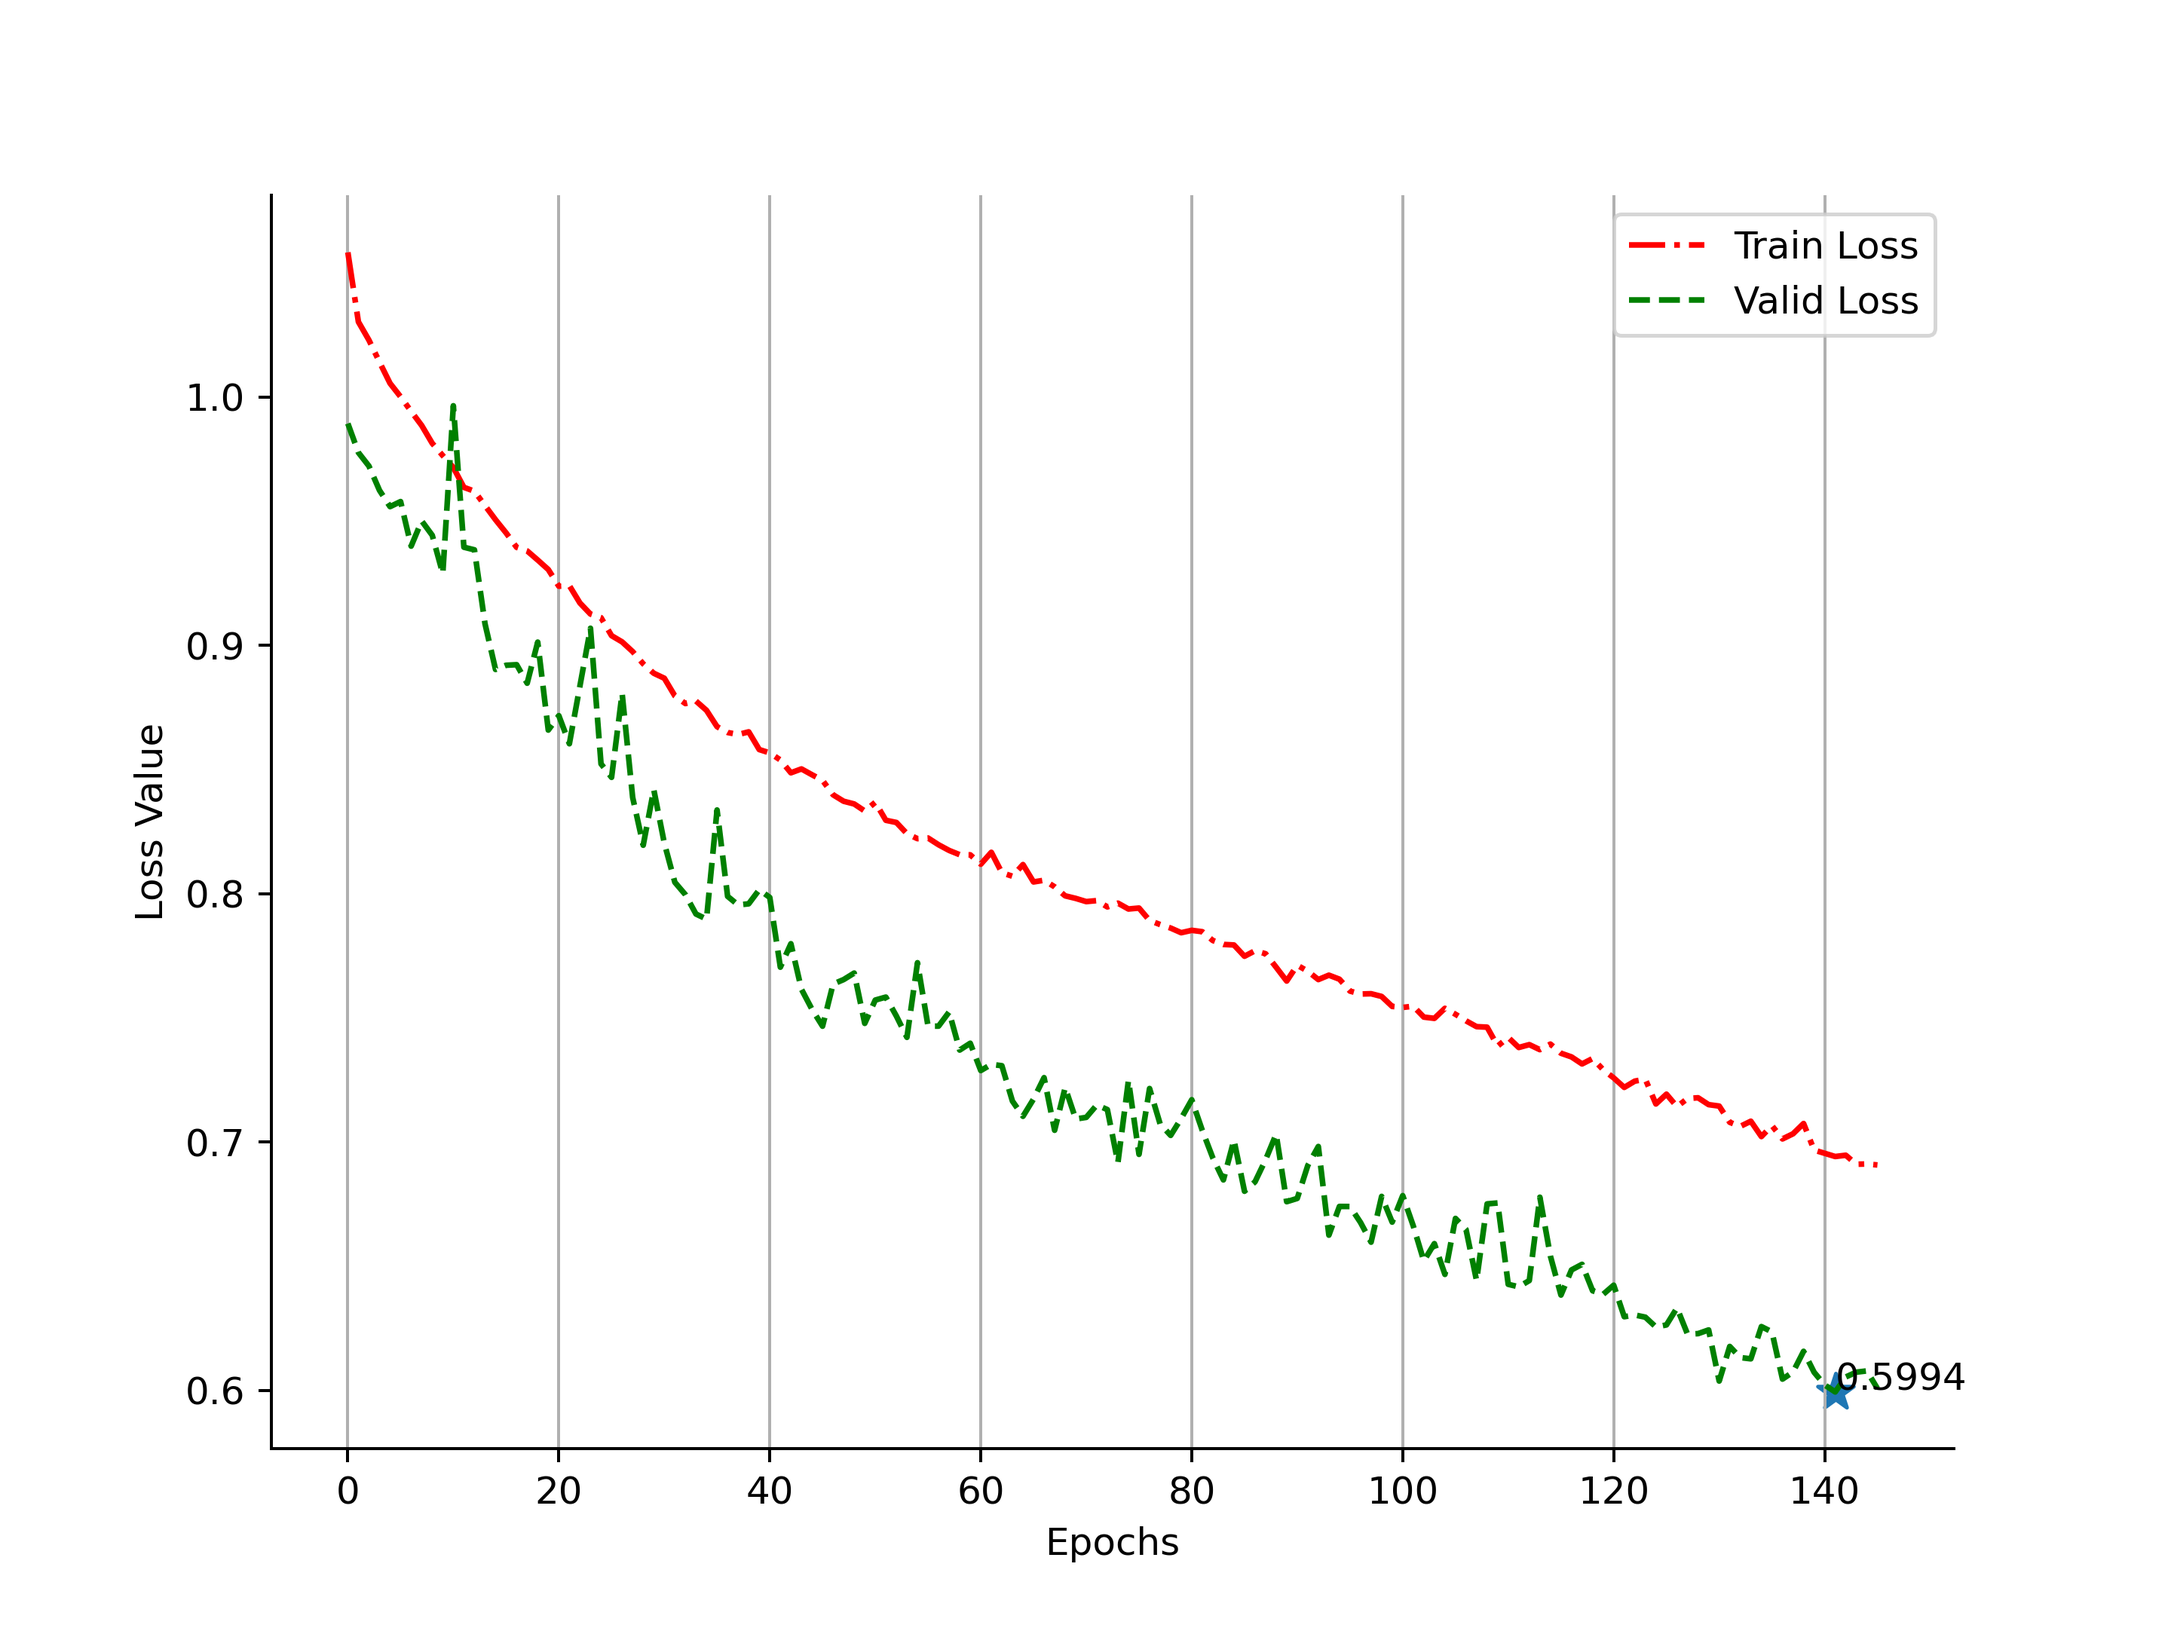
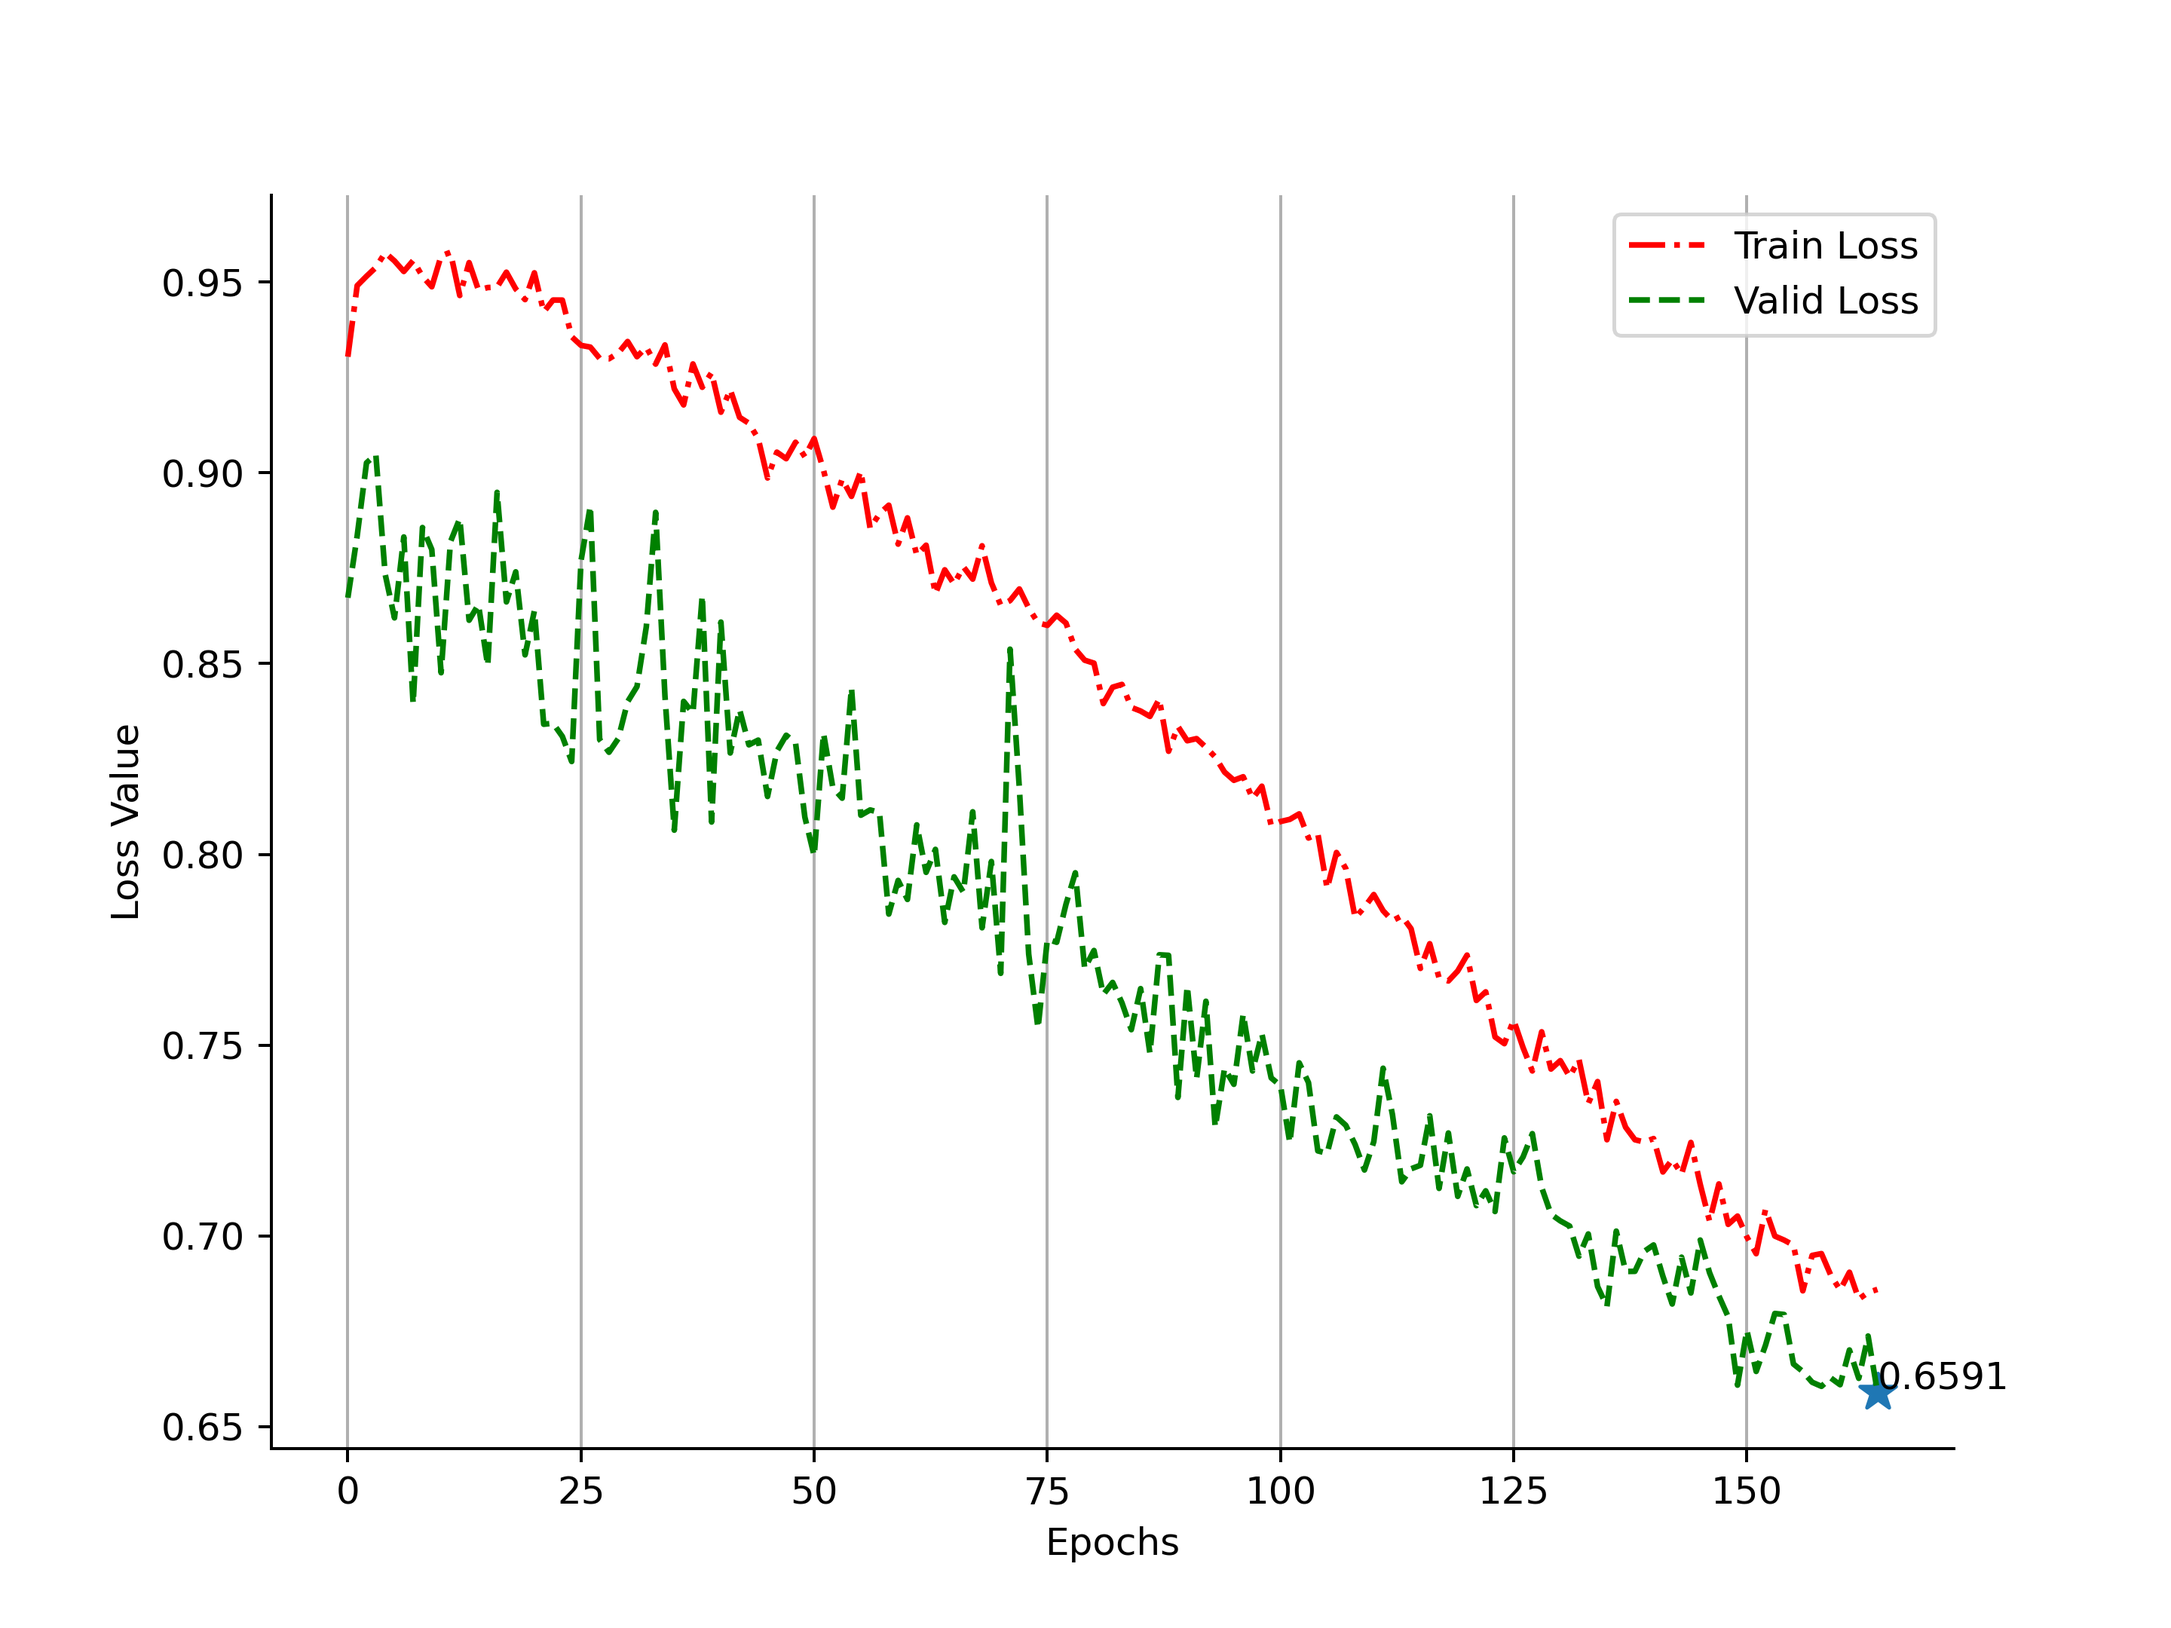
new file:   Figure/ResUnetV1_loss.png 	modified:   Figure/ResUnet_loss.png 	modified:   README.md 	modified:   src/data.py 	modified:   src/loss.py 	modified:   src/trainer.py 	modified:   train.py 	modified:   utils/utils.py

diff --git a/train.py b/train.py
@@ -1,19 +1,37 @@
 import torch
-from torch.utils.data import DataLoader
+from torch.utils.data import DataLoader, WeightedRandomSampler
 from src.unet import UNet
 from src.resunet import ResUnet
 from src.loss import CEDiceLoss
 from src.data import UnetDataset
 from src.trainer import Trainer
-from utils.utils import ROOT
+from utils.utils import ROOT, calc_rare_sample_weight
 from utils.plot import plot_loss
 from torch.optim.lr_scheduler import ReduceLROnPlateau, CosineAnnealingLR
 
-def main():
+"""
+weight = np.clip( np.median(pixel_freq_precet) / (pixel_freq_precet + 1e-6), 0.1, 10)
+"""
+pixel_precent = [0.59427402, 0.01427115, 0.0106742 , 0.01355912, 0.00916274,
+           0.00697495, 0.01796363, 0.02626262, 0.04365999, 0.01511205,
+           0.00756764, 0.01194504, 0.04175405, 0.01301906, 0.01596141,
+           0.10060095, 0.00747321, 0.00843392, 0.01269623, 0.01853402,
+           0.0101    ]
+weight = torch.tensor([0.1       , 0.95004097, 1.27015189, 0.99992625, 1.47964967,
+          1.94369527, 0.75476786, 0.51627017, 0.31055463, 0.89717952,
+          1.79148634, 1.13503095, 0.3247301 , 1.0414023 , 0.84944074,
+          0.13477992, 1.81412038, 1.60749811, 1.06788016, 0.73154082,
+          1.34235462])
+
+def main(model_weight = None):
+    batch_size = 16
     traindataset = UnetDataset(ROOT/"data", "train")
     valdataset = UnetDataset(ROOT/"data", "val")
-    trainloader = DataLoader(traindataset, batch_size = 16, num_workers=2, shuffle=True, pin_memory = True, persistent_workers=True, prefetch_factor=2)
-    valloader = DataLoader(valdataset, batch_size = 32, num_workers=2, shuffle=False, pin_memory = True, persistent_workers=True, prefetch_factor=2)
+    sampler_weight = calc_rare_sample_weight(traindataset, pixel_precent, n_jobs=4)
+    sampler = WeightedRandomSampler(sampler_weight, len(traindataset), replacement=True)
+    # trainloader = DataLoader(traindataset, batch_size = batch_size, num_workers=2, shuffle=True, pin_memory = True, persistent_workers=True, prefetch_factor=2)
+    trainloader = DataLoader(traindataset, batch_size = batch_size, sampler = sampler, num_workers=2, shuffle=False, pin_memory = True, persistent_workers=True, prefetch_factor=2)
+    valloader = DataLoader(valdataset, batch_size = batch_size*2, num_workers=2, shuffle=False, pin_memory = True, persistent_workers=True, prefetch_factor=2)
 
     num_epoch = 200
     early_stop = 15
@@ -21,9 +39,12 @@ def main():
     device = torch.device("cuda" if torch.cuda.is_available() else "cpu")
     # model = UNet(3, 21)
     model = ResUnet(3, 21)
-    criterion = CEDiceLoss(num_classes=21, ce_weight=0.1)
+    if model_weight is not None:
+        model_weight = torch.load(model_weight)
+        model.load_state_dict(model_weight)
+    criterion = CEDiceLoss(num_classes=21, weight=weight.to(device), ce_weight=0.2)
     # optimizer = torch.optim.Adam(model.parameters(), lr = 1e-3, weight_decay=3e-4)
-    optimizer = torch.optim.SGD(model.parameters(), lr = 1e-2, weight_decay=3e-4, momentum=0.9)
+    optimizer = torch.optim.SGD(model.parameters(), lr = 7e-3, weight_decay=3e-4, momentum=0.9)
 
     # lr_scheduler = ReduceLROnPlateau(optimizer, 'max', patience=5)
     lr_scheduler = CosineAnnealingLR(optimizer, T_max=num_epoch)

diff --git a/src/trainer.py b/src/trainer.py
@@ -89,7 +89,7 @@ class Trainer():
             tra_loss = self.train()
             val_loss, miou, class_iou = self.eval()
 
-            print(f"Class_iou: {class_iou}")
+            print(f"Class_iou: {class_iou.tolist()}")
 
             print(f"Train loss: {tra_loss}, Valid loss: {val_loss}, mIoU: {miou}") 
             self.state["tra_loss"].append(tra_loss)
@@ -97,7 +97,7 @@ class Trainer():
             self.state["miou"].append(miou)
             self.state["class_iou"].append(class_iou)
 
-            if (epoch+1) % 10 == 0:
+            if (epoch+1) % 20 == 0:
                 print(self.optimizer.param_groups[0]["lr"])
                 self.save(f"./run/epoch_{epoch+1}_model_loss_{val_loss:.4f}.pth")
 
@@ -108,18 +108,19 @@ class Trainer():
                     self.lr_scheduler.step()
 
             if val_loss < self.best_loss - self.tolerance:
-            # if miou > self.best_miou + self.tolerance:
                 n_count = 0
                 self.best_loss = val_loss
-                # self.best_miou = miou
                 self.save(f"./run/best_model.pth")
             else:
                 n_count += 1
             
-            if n_count == self.early_stop:
+            if miou > self.best_miou:
+                self.best_miou = miou
+
+            if n_count == self.early_stop and self.early_stop is not None:
                 print(f"Epoch {epoch} early stop.")
                 break
-        # print(f"Training finished. Best mIoU = {self.best_miou:.4f}")
+        print(f"Training finished. Best mIoU = {self.best_miou:.4f},  Best loss: {self.best_loss}")
         return None
     
     @staticmethod

diff --git a/utils/utils.py b/utils/utils.py
@@ -3,6 +3,8 @@ import cv2
 import numpy as np
 from pathlib import Path
 from PIL import Image
+from functools import partial
+from joblib import Parallel, delayed
 
 ROOT = os.path.dirname(os.path.dirname(os.path.abspath(__file__)))
 ROOT = Path(ROOT)
@@ -21,3 +23,23 @@ def read_image(raw_path, segment_path):
 
 #     mask = cv2.imread(segment_path, cv2.IMREAD_GRAYSCALE)
 #     return img, mask
+
+def calc_rare_sample_weight(dataset, precent, rare_threshold = 0.01, ignore_index = [0],
+                            rare_weight = 3.0, normal_weight = 1.0,
+                            n_jobs = -1):
+    rare_indices = [n for n, v in enumerate(precent) if v < rare_threshold and n not in ignore_index]
+
+    def get_mask(idx):
+        return dataset[idx][1]
+    
+    def _check_rare(idx, rare_indices):
+        mask = get_mask(idx)
+        unique = np.unique(mask)
+        return rare_weight if len(np.intersect1d(unique, rare_indices)) > 0 else normal_weight
+    
+    mask_idx = list(range(len(dataset)))
+    check_fun = partial(_check_rare, rare_indices = rare_indices)
+    sample_weight = Parallel(n_jobs=n_jobs)(
+        delayed(check_fun)(i) for i in mask_idx
+    )
+    return sample_weight

diff --git a/src/data.py b/src/data.py
@@ -12,14 +12,16 @@
 """
 
 import os
+import numpy as np
 import albumentations as A
 from torch.utils.data import Dataset
 from utils.utils import read_image
 
 MAX_HEIGHT, MAX_WIDTH = 256, 256
 train_trans = A.Compose([
-    A.RandomResizedCrop((MAX_HEIGHT, MAX_WIDTH)),
+    A.RandomResizedCrop((MAX_HEIGHT, MAX_WIDTH), scale=(0.2, 1.0)),
     # A.Resize(MAX_HEIGHT, MAX_WIDTH),
+    A.RandomRotate90(p = 0.5),
     A.CoarseDropout(),
     A.ColorJitter(),
     A.ElasticTransform(),
@@ -40,7 +42,7 @@ class UnetDataset(Dataset):
         self.namepath = os.path.join(path, "Segmentation", f"{datatype}.txt")
         self.name = self.inital()
         self.transformer = train_trans if datatype == "train" else val_trans
-    
+        
     def __len__(self):
         return len(self.name)
 

diff --git a/src/loss.py b/src/loss.py
@@ -2,6 +2,7 @@ import torch
 import torch.nn as nn
 import torch.nn.functional as F
 
+
 class DiceLoss(nn.Module):      
     def __init__(self, num_classes, smooth = 1e-5):
         super().__init__()
@@ -22,9 +23,9 @@ class DiceLoss(nn.Module):
         return 1 - dice_loss.mean()
 
 class CEDiceLoss(nn.Module):
-    def __init__(self, num_classes, ce_weight = 0.5):
+    def __init__(self, num_classes, weight, ce_weight = 0.5):
         super().__init__()
-        self.ce_loss = nn.CrossEntropyLoss(ignore_index=255)
+        self.ce_loss = nn.CrossEntropyLoss(weight = weight,ignore_index=255)
         self.dice_loss = DiceLoss(num_classes)
         self.ce_weight = ce_weight
         self.dice_weight = 1 - ce_weight

diff --git a/src/attention.py b/src/attention.py
@@ -1,0 +1,3 @@
+import torch
+import torch.nn as nn
+import torch.nn.functional as F

diff --git a/README.md b/README.md
@@ -24,10 +24,9 @@
 ### 关于损失函数
 - CrossEntroy + Dice 组合损失函数不要设置分配系数为0.5，会导致模型总是在学习图片中的背景，把所有类别预测为背景，跑出来的Loss是假的(miou极低)，让模型专注于分类Dice。可以前期使用0.2或者0.1，或者干脆只用Dice，后期查看各个分类的iou有不错的值之后在该也行。交叉熵在乎的是整体，而本身图片就大部分是背景（也就是背景与等于整体），所以交叉熵权重过高会诱导模型往背景方向学习。
 ### 关于训练
-- lr_scheduler策略试过warming up+余弦退火、ReduceLROnPlateau，对应优化器使用Adam，效果都不太好，在50~100epoch时学习率就很低了
-- 显存不太够，开启了amp，batch_size设置得也很小。
-
+#### 原版Unet
 ```shell
+No crossentropy weight, data enchanced lowest
 Unet best on 4070tis 16G:
 Epoch 186
 Class_iou: 
@@ -36,16 +35,49 @@ Class_iou:
 0.00331658, 0.27010915, 0.4420583,  0.33303532, 0.44052273, 
 0.57888395, 0., 0.37612396, 0.28619772, 0.57614607, 0.45614052]
 Train loss: 0.7639775494074174, Valid loss: 0.6284025855686354, mIoU: 0.372471421957016
-GMEM peak: 10.2G, mean FLOPs: 5.1 it/s, escaped: 5h40min
+GMEM peak: 10.2G, mean FLOPs: 5.1 it/s, escaped: 5h40min 
 ```
+1. lr_scheduler策略试过warming up+余弦退火、ReduceLROnPlateau，对应优化器使用Adam，效果都不太好，在50~100epoch时学习率就很低了
+2. 原始Unet显存不太够，开启了amp，batch_size设置得也很小；
+3. 原版Unet过于保守，在encoder阶段其一是感受野太小无法有效捕获空间结构，其二是下采样保留的的维度相对保守，人眼判断一个物体也不一定非得要特别清晰才能判断。
 
+随后进行Resnet-Unet训练：将encoder替换为resnet34，其余不变
+
+#### ResUnet
 ```shell
+No crossentropy weight, data enchanced median
 Res_Unet best:
 Epoch 142
-Class_iou: [0.8384693  0.5988348  0.21043877 0.4552829  0.37388262 0.01636582
- 0.7676033  0.66530776 0.52315587 0.1648062  0.3444997  0.3709078
- 0.37317067 0.45931226 0.51064265 0.58065015 0.10528094 0.42470327
- 0.2946658  0.6261741  0.32148215]
+Class_iou:
+[0.8384693,  0.5988348,  0.21043877, 0.4552829,  0.37388262, 0.01636582,
+ 0.7676033,  0.66530776, 0.52315587, 0.1648062,  0.3444997,  0.3709078,
+ 0.37317067, 0.45931226, 0.51064265, 0.58065015, 0.10528094, 0.42470327,
+ 0.2946658,  0.6261741,  0.32148215]
 Train loss: 0.6941627371617314, Valid loss: 0.5993529098189395, mIoU: 0.42979228496551514
 GMEM peak: 5.9G, mean FLOPs: 11.73 it/s, escaped: 2h12min
 ```
+整体上来说ResUnet全方位碾压Unet：
+1. 训练初始encoder感受野大
+2. 采用激进的下采样策略，到瓶颈层维度仅为 512x8x8，节省了大量内存，也为计算提速不少
+3. 使用残差链接方式，防止梯度消失，让最底层的encoder也有几乎学习到原始特征
+4. resnet使用的是resnet34网络结构，瓶颈层没有采用1x3x1的方式，防止特征丢失过多
+5. 特别的，数据增强引入了拉伸变形，矩形块随机消失，随机明亮/对比度/锐化，高斯噪声，用于获取更泛化的模型（为什么原版Unet不用？试过了，本来就笨的Unet加入之后Loss波动更大，miou迟迟无法提升，根本学不到东西）
+
+上面两种训练方式中，发现对于小型的物体模型很难学习到，遂引入权重。
+```shell
+Resunet crossentropy weight and classes sampler weight:
+best epoch 354
+
+Class_iou:
+[ 0.8212452530860901, 0.5623279213905334, 0.1768288016319275, 0.4441829025745392, 0.38164231181144714, 
+0.4150521755218506, 0.7242353558540344, 0.6501280069351196, 0.5659971237182617, 0.14889083802700043, 0.47214949131011963, 
+0.4191027879714966, 0.4734911322593689, 0.39288610219955444, 0.5378757119178772, 0.5948883295059204, 0.23530153930187225, 
+0.4036082625389099, 0.2585335075855255, 0.6322515606880188, 0.3885267376899719 ]
+Train loss: 0.7051744216158311, Valid loss: 0.6608525890371074, mIoU: 0.4618641138076782
+```
+1. 根据中位值计算权重后添加进入交叉熵；
+2. ce_weight值0.1提升至0.2，增大交叉熵影响，不然权重白引入了；
+3. RandomResizedCrop中的scale为了能捕获到小物体，将裁剪区域0.08提升至0.2;
+4. 单独引入权重会导致不同的batch之间loss波动较大，应该是部分罕见样本仅存在部分batch_size导致的，解决方式要么增大batch_size，要么加入自定义的权重样本采样。由于显存限制，采用了后者。
+5. 引入采样器后，理论的训练轮次应该有所增加；
+6. 训练结果来看，小物体（小样本）的iou有较大上升，但是整体的miou上升有限
